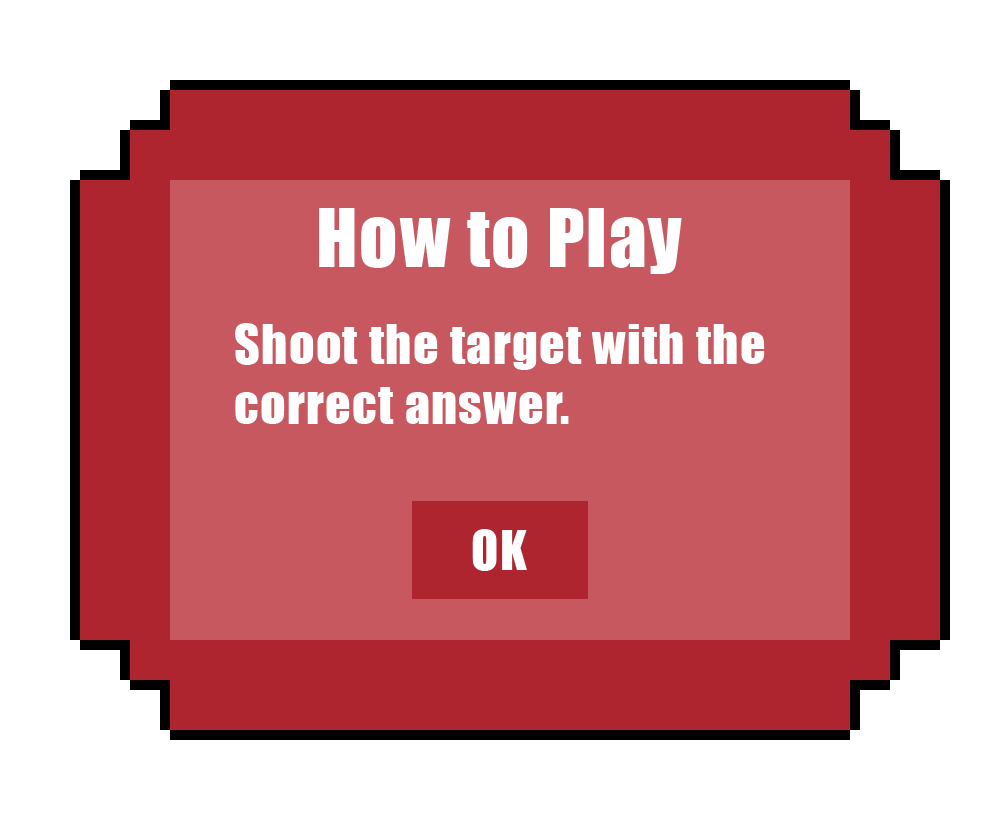
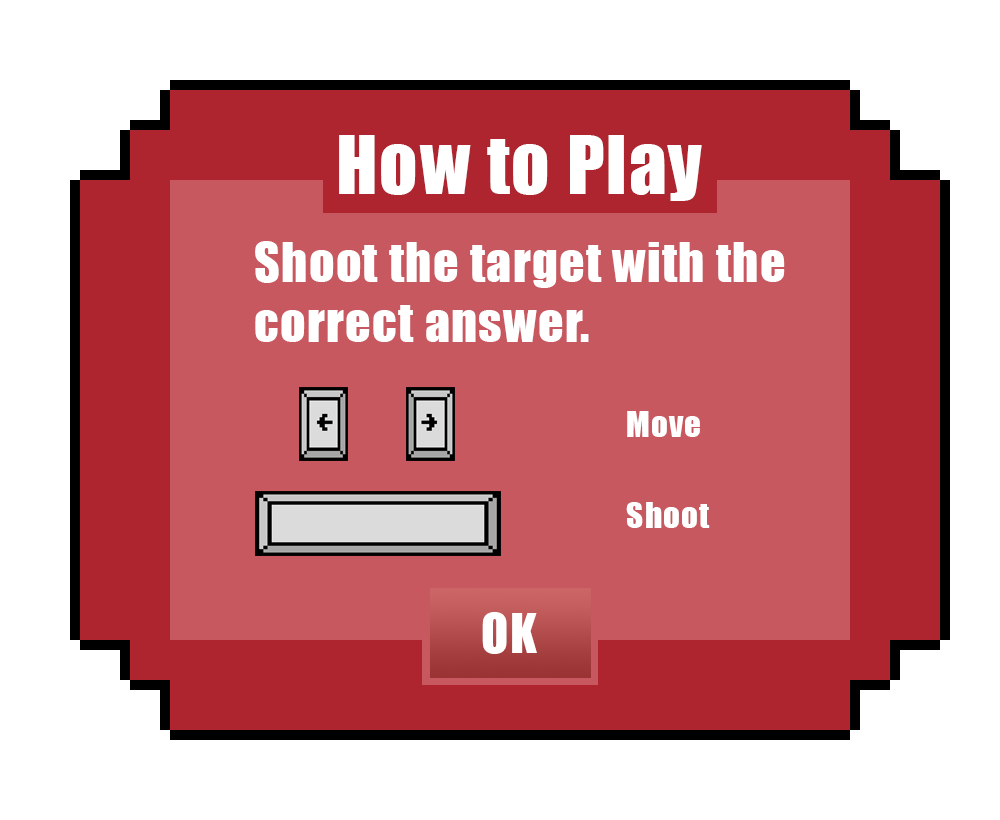
Added Key Bindings to instructions

Changed region(s): [[0.217, 0.1524, 0.806, 0.8537], [0.62, 0.4878, 0.713, 0.5488], [0.62, 0.6098, 0.713, 0.6402]]

diff --git a/src/states/Game_Division.js b/src/states/Game_Division.js
@@ -161,7 +161,7 @@ export default class extends Phaser.State {
              menu = game.add.sprite(w/2, h/2, 'menu');
              menu.anchor.setTo(0.5, 0.5);
              // And a label to illustrate which menu item was chosen. (This is not necessary)
-             choiseLabel = game.add.text(w/2, h-160, 'Click outside menu to continue', { font: '30px Arial', fill: '#fff' });
+             choiseLabel = game.add.text(w/2, h-160, 'Click outside menu to continue', { font: '30px Arial', fill: '#000000' });
              choiseLabel.anchor.setTo(0.5, 0.5);
          });
  
@@ -229,7 +229,8 @@ export default class extends Phaser.State {
 
          //--------------------------------------------Instruction Screen-----------------------------------------
         //load instruction screen
-        instructions = this.add.image(0, 0, 'instruct')
+        instructions = this.add.image(this.world.centerX, this.world.centerY, 'instruct')
+        instructions.anchor.setTo(0.5,0.5)
         this.input.onTap.addOnce(hide,self);
 
     }
@@ -618,7 +619,8 @@ function restartGame(){
 function restart () {
     //  A new level starts
     //  And brings the aliens back from the dead :)
-    stateText = game.add.sprite(0,0,'congrats');
+    stateText = game.add.sprite(725,500,'congrats');
+    stateText.anchor.setTo(0.5, 0.5)
     firstOp.visible = false
     secondOp.visible = false
     stateText.visible = true;

diff --git a/src/states/Game_Multiplication.js b/src/states/Game_Multiplication.js
@@ -204,7 +204,8 @@ export default class extends Phaser.State {
 
         //--------------------------------------------Instruction Screen-----------------------------------------
         //load instruction screen
-        instructions = this.add.image(0, 0, 'instruct')
+        instructions = this.add.image(this.world.centerX, this.world.centerY, 'instruct')
+        instructions.anchor.setTo(0.5,0.5)
         instructions.inputEnabled = true
         this.input.onTap.addOnce(hide,self);
     }

diff --git a/src/states/Game_Factoring.js b/src/states/Game_Factoring.js
@@ -225,7 +225,8 @@ export default class extends Phaser.State {
 
         //--------------------------------------------Instruction Screen-----------------------------------------
         //load instruction screen
-        instructions = this.add.image(0, 0, 'instruct')
+        instructions = this.add.image(this.world.centerX, this.world.centerY, 'instruct')
+        instructions.anchor.setTo(0.5,0.5)
         this.input.onTap.addOnce(hide,self);
     }
 

diff --git a/src/states/MainMenu.js b/src/states/MainMenu.js
@@ -43,7 +43,7 @@ export default class extends Phaser.State {
       Background.height = this.world.height
 
       //Display game title (NEEDS STYLING**)
-      var text = this.add.text(this.world.centerX, this.world.centerY/4,"Arithmetic Monkeys",
+      var text = this.add.text(this.world.centerX, this.world.centerY/4,"Congo's Math Adventure",
           {font: "60px Arial",
            fontWeight: "bold",
            fill: "#FFD700",
